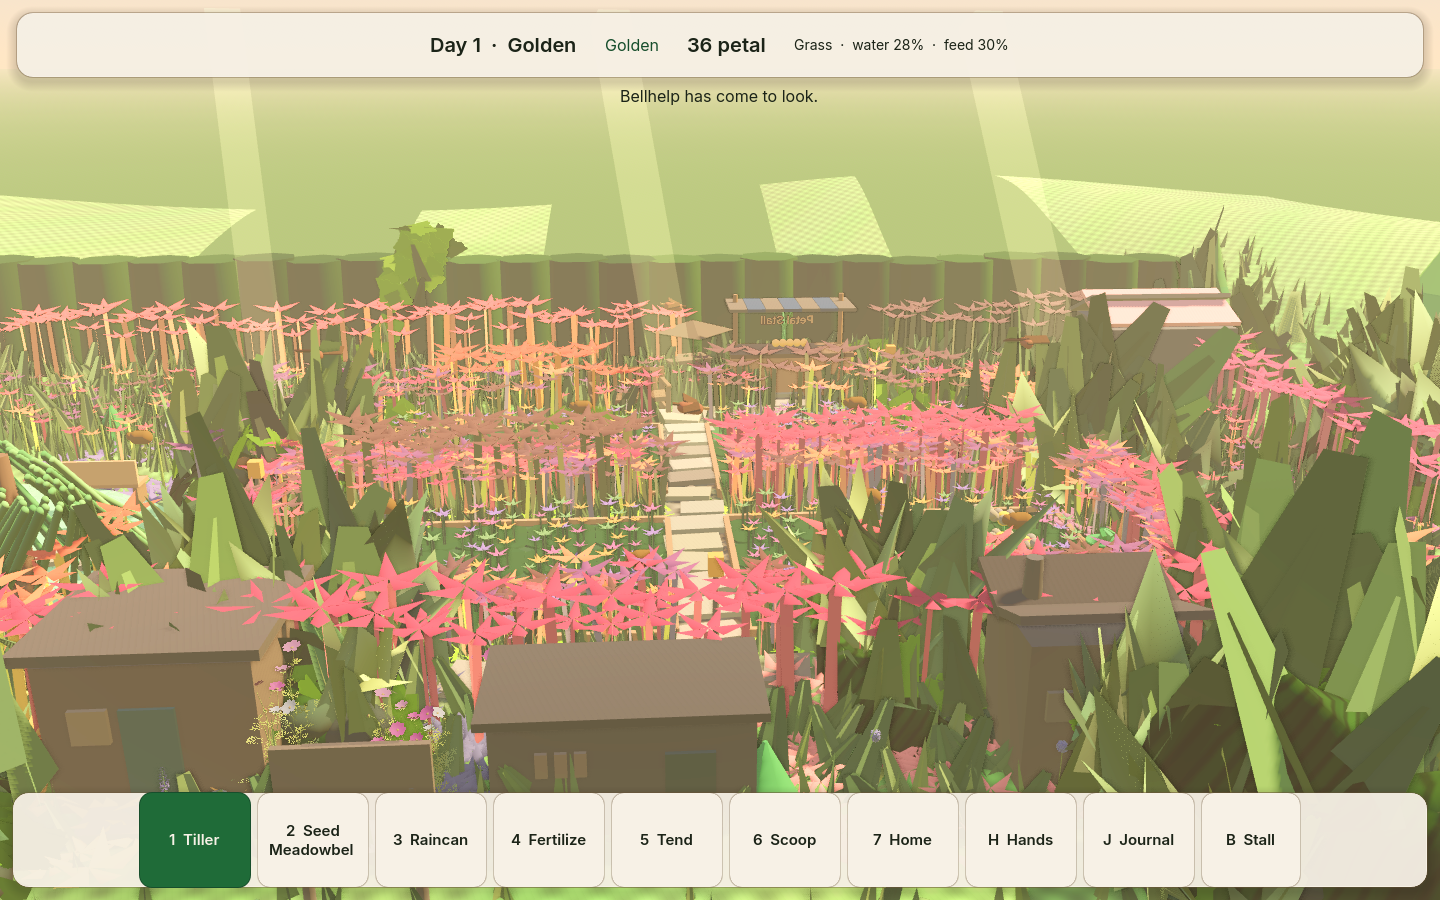
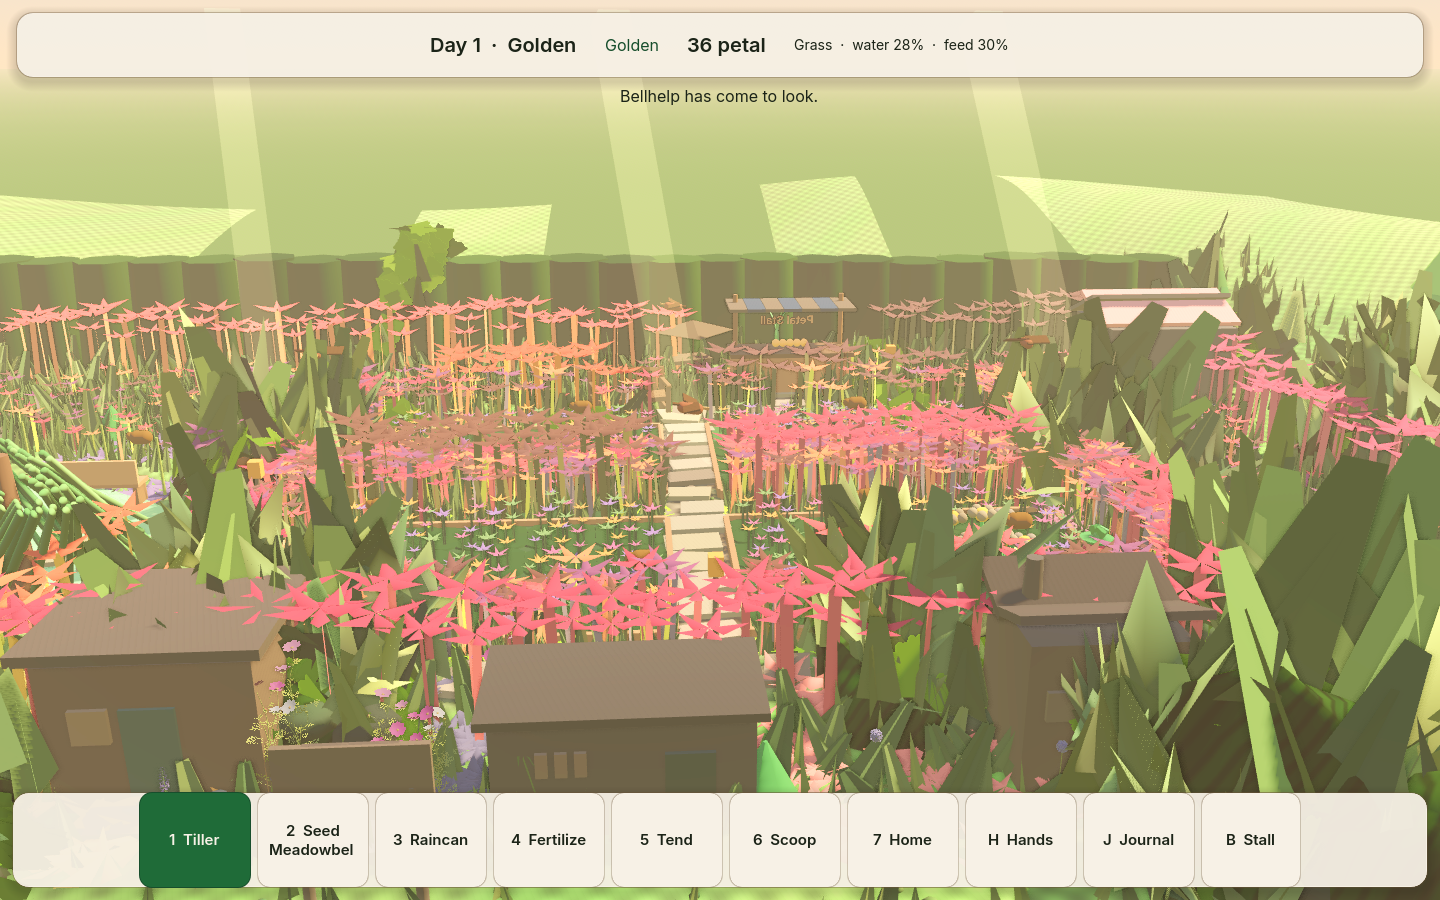
Record the meadow joining the plot rows.
The north and south beds meet across the lawn. The upper band is 1.57% light-green and the hill mean is (212.2, 223.8, 146.6).

diff --git a/docs/PETALWILD_MASTER_STATE.md b/docs/PETALWILD_MASTER_STATE.md
@@ -38,7 +38,7 @@ This machine has no Vulkan surface. Godot falls back to OpenGL 3 / llvmpipe. Aud
 - The garden does not yet look like the concept plates. See the gap list below.
 - Bellhelp’s five sphere lobes are gone. Five narrow petals run from the tips down to a small pad, with a dark five-petal well, a gold seed, a wider flared whorl, a lower rim, five gap tips past the lobes, a darker band, and a wide short rank inside the tips. The wide skirt of spheres is gone.
 - Lumen’s stalk is one fluted taper, cream at the base and green at the crown. The raised hand holds a seed tray. Each hand is a palm with three fingers and a thumb.
-- Crest leaf cards are 0.4 scale, and the far hedge keeps one 2.5 m tuft in four. A dark shrub row stands just behind that wall, taller at the east end. Light-green in the upper opening band fell from 53% to 24%, and in the lower band from 36% to 13%. The hill did not move. The stall still shows through the middle. The bright blue in that opening was the awning cloth. That stripe is darker now, about (171, 171, 173), and the sky-blue detector on the overview is 0. The shrub row behind the wall was the pale green in the upper band. That check now covers 1.2%, down from 3.5%. The crest leaf cards and the far trees were the side-opening pale pixels. The north backdrop trees are shorter. Paths are dark dirt with darker flagstones. Blooms are rose. StandardMaterial specular is off. The bench and planter are darkened, bright plant-atlas texels are capped, and the lantern glass is amber. The pink disk by the south-west rail, the untilled grass-plot tops, the meadowbell petals, the mauve bed, the resident hands, the light flagstones, the path dirt, and the loose stones are darkened. Overview pixels at pure white are 0. A planted cell keeps the meadow lid, so the crop sits in the bed. The four plots still stand apart along the paths. On this shot the upper-band check is 1.54% (1149 pixels) and the hill mean is (212.1, 223.7, 146.5). Eight bees drift over the beds. Four birds cross the garden by day and perch at dusk and in the rain.
+- Crest leaf cards are 0.4 scale, and the far hedge keeps one 2.5 m tuft in four. A dark shrub row stands just behind that wall, taller at the east end. Light-green in the upper opening band fell from 53% to 24%, and in the lower band from 36% to 13%. The hill did not move. The stall still shows through the middle. The bright blue in that opening was the awning cloth. That stripe is darker now, about (171, 171, 173), and the sky-blue detector on the overview is 0. The shrub row behind the wall was the pale green in the upper band. That check now covers 1.2%, down from 3.5%. The crest leaf cards and the far trees were the side-opening pale pixels. The north backdrop trees are shorter. Paths are dark dirt with darker flagstones. Blooms are rose. StandardMaterial specular is off. The bench and planter are darkened, bright plant-atlas texels are capped, and the lantern glass is amber. The pink disk by the south-west rail, the untilled grass-plot tops, the meadowbell petals, the mauve bed, the resident hands, the light flagstones, the path dirt, and the loose stones are darkened. Overview pixels at pure white are 0. A planted cell keeps the meadow lid, so the crop sits in the bed. The north and south plots meet across the lawn. The north-south path still separates the west beds from the east beds. On this shot the upper-band check is 1.57% (1176 pixels) and the hill mean is (212.2, 223.8, 146.6). Eight bees drift over the beds. Four birds cross the garden by day and perch at dusk and in the rain.
 - City, venues, and the agent civilisation are a single parish record (`data/district.json`, Hedge Hollow, phase A).
 - On-screen jellies stay at district fidelity or nearer. The directory shows each resident's home and job. The parish page lists venues. Petal Stall, the potting shed, the hedge tea house, the research hut, the media foundry, and the town hall board are open. Grove Park is not built, and demand for it is not simulated. Petal Stall demand is the people present plus creature residents.
 - Trust cannot research, draft, or act outside the process.
@@ -64,14 +64,14 @@ Spent: 0. Remaining on the connected account: **367.46** (pro). Catalog check re
 
 Compared `docs/screenshots/wave1_overview.png`, `wave1_jelly.png`, and `wave1_lumen.png` with `docs/reference/petalwild_target_garden_01.png` and `petalwild_target_garden_02.png`.
 
-The north backdrop trees are shorter than the hedge. Crest leaf cards are 0.4 scale, and the far hedge keeps one 2.5 m tuft in four. A dark shrub row stands just behind that wall, taller at the east end. Light-green pixels fell from 53% to 24% in the upper opening band (screen y 265–320) and from 36% to 13% in the lower band (y 290–360). East-lip luminance (y 252–272) fell from 200 to 162. The hill (y 200–245) did not change. Bellhelp’s close-up is on open lawn: five narrow lobes, a dark five-petal well, a gold seed, a wider flared whorl, a lower rim, five gap tips past the lobes, a darker band, and a wide short rank inside the tips. The bench and planter use a dark multiply, bright plant-atlas texels are capped, and the lantern glass is amber. The pink disk by the south-west rail, the untilled grass-plot tops, the meadowbell petals, the mauve bed, the resident hands, the light flagstones, the path dirt, and the loose stones are darkened. Pure white on this overview is 0. The stall awning’s bright blue was cloth, now about (171, 171, 173), and the sky-blue detector is 0. The shrub row behind the wall no longer reads as pale green; that upper-band check is 1.2%. On the previous shot that check was 1.17% and the hill mean was (212.9, 224.4, 147.6). With the hedge tea house in the lower left, that shot was 1.30%. With the research hut in the lower middle, that shot was 1.17% (874 pixels). With the media foundry in the lower middle, that shot was 1.15% (862 pixels). With the town hall board in the south gate, that shot was 1.29% (968 pixels) and the hill mean was (212.0, 223.6, 146.4). On that shot the check was 1.54% (1155 pixels) and the hill mean was (212.0, 223.7, 146.5). Empty untilled beds now carry nine dark leaf discs and eight short flowers, and a tilled or planted bed clears them. On the leaf-cover shot the check was 1.60% (1197 pixels) and the hill mean was (212.1, 223.8, 146.5). Neighboring empty cells now share an overlapping dark lid, so the brown seam inside a plot closes. On the joined-lid shot the check was 1.61% (1208 pixels) and the hill mean was (212.1, 223.8, 146.5). A planted cell now keeps that dark lid, so the crop sits in the meadow instead of an inset square. On this shot the check is 1.54% (1149 pixels) and the hill mean is (212.1, 223.7, 146.5). The swing is the west edge of the hill under the swaying leaves. A planted meadowbell is three bells on a leaf pad, and every crop sits in a ring of eight leaves. Eight bees drift over the beds. Four birds cross the garden by day and perch at dusk and in the rain. Paths are flagstones on dark dirt. Lumen’s stalk is one fluted taper, and the raised hand holds the seed tray. `PETAL_SMOKE_OK`, `PETAL_RULES_OK`, and `PETAL_CAPTURE_OK` passed on this tree. Shots are the six `wave1_*.png` files.
+The north backdrop trees are shorter than the hedge. Crest leaf cards are 0.4 scale, and the far hedge keeps one 2.5 m tuft in four. A dark shrub row stands just behind that wall, taller at the east end. Light-green pixels fell from 53% to 24% in the upper opening band (screen y 265–320) and from 36% to 13% in the lower band (y 290–360). East-lip luminance (y 252–272) fell from 200 to 162. The hill (y 200–245) did not change. Bellhelp’s close-up is on open lawn: five narrow lobes, a dark five-petal well, a gold seed, a wider flared whorl, a lower rim, five gap tips past the lobes, a darker band, and a wide short rank inside the tips. The bench and planter use a dark multiply, bright plant-atlas texels are capped, and the lantern glass is amber. The pink disk by the south-west rail, the untilled grass-plot tops, the meadowbell petals, the mauve bed, the resident hands, the light flagstones, the path dirt, and the loose stones are darkened. Pure white on this overview is 0. The stall awning’s bright blue was cloth, now about (171, 171, 173), and the sky-blue detector is 0. The shrub row behind the wall no longer reads as pale green; that upper-band check is 1.2%. On the previous shot that check was 1.17% and the hill mean was (212.9, 224.4, 147.6). With the hedge tea house in the lower left, that shot was 1.30%. With the research hut in the lower middle, that shot was 1.17% (874 pixels). With the media foundry in the lower middle, that shot was 1.15% (862 pixels). With the town hall board in the south gate, that shot was 1.29% (968 pixels) and the hill mean was (212.0, 223.6, 146.4). On that shot the check was 1.54% (1155 pixels) and the hill mean was (212.0, 223.7, 146.5). Empty untilled beds now carry nine dark leaf discs and eight short flowers, and a tilled or planted bed clears them. On the leaf-cover shot the check was 1.60% (1197 pixels) and the hill mean was (212.1, 223.8, 146.5). Neighboring empty cells now share an overlapping dark lid, so the brown seam inside a plot closes. On the joined-lid shot the check was 1.61% (1208 pixels) and the hill mean was (212.1, 223.8, 146.5). A planted cell now keeps that dark lid, so the crop sits in the meadow instead of an inset square. On the planted-lid shot the check was 1.54% (1149 pixels) and the hill mean was (212.1, 223.7, 146.5). The north and south plots now meet across the lawn, and the north-south path stays open. On this shot the check is 1.57% (1176 pixels) and the hill mean is (212.2, 223.8, 146.6). The swing is the west edge of the hill under the swaying leaves. A planted meadowbell is three bells on a leaf pad, and every crop sits in a ring of eight leaves. Eight bees drift over the beds. Four birds cross the garden by day and perch at dusk and in the rain. Paths are flagstones on dark dirt. Lumen’s stalk is one fluted taper, and the raised hand holds the seed tray. `PETAL_SMOKE_OK`, `PETAL_RULES_OK`, and `PETAL_CAPTURE_OK` passed on this tree. Shots are the six `wave1_*.png` files.
 
 Three largest gaps still open, against `docs/reference/petalwild_target_garden_01.png` and `petalwild_target_garden_02.png`:
 
-1. **Hedge skyline.** The crest cards and the far trees are darker. On this shot 1.54% of the upper band is still light-green (1149 pixels), mostly the west edge of the hill. The hill mean is (212.1, 223.7, 146.5). The stall still shows through the middle. The south rooms, the gate board, and the bed blooms sit lower and do not cover that edge. PETAL-05.
+1. **Hedge skyline.** The crest cards and the far trees are darker. On this shot 1.57% of the upper band is still light-green (1176 pixels), mostly the west edge of the hill. The hill mean is (212.2, 223.8, 146.6). The stall still shows through the middle. The south rooms, the gate board, and the bed blooms sit lower and do not cover that edge. PETAL-05.
 2. **Bellhelp.** Ten tips, a short rank inside them, a darker band, and a wider skirt. The dark throat is still the center. PETAL-03.
-3. **Plot grid.** A planted cell keeps the meadow lid, so it no longer punches an inset square. The four plots still stand apart along the paths. The plates are one continuous planting. Overview pixels at pure white are 0, and the brightest leftover is still the warm horizon at screen x 1034, y 178, (255, 255, 201). That is sky. PETAL-06.
+3. **Plot grid.** The north and south plots meet across the lawn. The north-south path still separates the west beds from the east beds. The plates are one continuous planting. Overview pixels at pure white are 0, and the brightest leftover is still the warm horizon at screen x 1034, y 178, (255, 255, 201). That is sky. PETAL-06.
 
 ## Next integration
 
-Keep this build playable. The next pass stays inside `scenes/main.tscn` (Hedge Hollow). The creature chain through Gushorn can happen in this garden, and two resident Bellhelps raise the species to breeding. Grove Park is still not built. The hedge tea house stands on the south lawn. The research hut stands west of it, and the media foundry stands between them. The town hall is a board by the south gate. Meadowbells are a clump of three, and every crop sits in a ring of leaves. A planted cell keeps the meadow lid, and the four plots still stand apart along the paths. On this shot 1.54% of the upper band is still light green (1149 pixels), mostly the west edge of the hill, and the stall still shows through the middle. The hill mean is (212.1, 223.7, 146.5). The south rooms and the town hall board sit in the foreground. Bees sit on the flowers while it rains. Do not paint that hill edge, do not cut the hill, and do not raise the east shrubs. Do not fill Bellhelp’s dark throat. Do not open a side demo. The Kenney/Cara grove in `scripts/presentation/` is not the running scene.
+Keep this build playable. The next pass stays inside `scenes/main.tscn` (Hedge Hollow). The creature chain through Gushorn can happen in this garden, and two resident Bellhelps raise the species to breeding. Grove Park is still not built. The hedge tea house stands on the south lawn. The research hut stands west of it, and the media foundry stands between them. The town hall is a board by the south gate. Meadowbells are a clump of three, and every crop sits in a ring of leaves. The north and south plots meet across the lawn, and the north-south path still separates the west beds from the east beds. On this shot 1.57% of the upper band is still light green (1176 pixels), mostly the west edge of the hill, and the stall still shows through the middle. The hill mean is (212.2, 223.8, 146.6). The south rooms and the town hall board sit in the foreground. Bees sit on the flowers while it rains. Do not paint that hill edge, do not cut the hill, and do not raise the east shrubs. Do not fill Bellhelp’s dark throat. Do not open a side demo. The Kenney/Cara grove in `scripts/presentation/` is not the running scene.

diff --git a/docs/VISUAL_GAP.md b/docs/VISUAL_GAP.md
@@ -2,12 +2,12 @@
 
 Compared on 2026-09-22. The scene `tools/run.sh` launches is Hedge Hollow. Shots: `docs/screenshots/wave1_overview.png`, `wave1_jelly.png`, `wave1_lumen.png`. Targets: `docs/reference/petalwild_target_garden_01.png` and `petalwild_target_garden_02.png`.
 
-The north backdrop trees are shorter than the hedge. Crest leaf cards are 0.4 of their old size, and the far wall keeps one 2.5 m tuft in four. A row of dark shrubs stands just behind that wall. The east end is taller so its lip meets the hedge line. Light-green pixels in the upper opening band (screen y 265–320, x 40–1400) fell from 53% to 24%, and in the lower band (y 290–360, x 80–1200) from 36% to 13%. On the east lip (y 252–272, x 40–300) mean luminance fell from 200 to 162. The hill (y 200–245) did not change. The stall still sits in front of the middle of the wall. The bright blue band in that opening was the awning cloth, not a hole in the hedge. That stripe is darker now and reads about (171, 171, 173). A sky-blue detector on the overview (blue above 200, ahead of red by 20 and of green by 10) is 0. The shrub row behind the wall was lifting to pale green under the sun. The same light-green check (green ahead of red by 15 and of blue by 20, green above 140) now covers 1.2% of the upper band, down from 3.5% on the previous shot. The crest leaf cards and the far trees were the pale pixels in the side openings. The upper hill (screen y 200–230) stayed at about (213, 224, 148). The ground sky below the horizon is green, so a hole in the hill reads as olive rather than pale sky. Bellhelp’s close-up shows five pointed lobes, five gap tips past them, a wide short rank inside that ring, a darker band, and a wider flared whorl. The dark throat stays. The wide skirt of spheres is gone. The bench and planter use a dark multiply on the prop texture, and bright plant-atlas texels are capped. The three lantern glasses are amber instead of pure white. The pink disk by the south-west rail, the untilled grass-plot tops, the meadowbell petals, the mauve bed, the resident hands, the light flagstones, the path dirt, and the loose stones are darkened so they stay under the sun. Eight bees drift over the beds. Four birds cross the garden by day and perch at dusk and in the rain. A planted meadowbell is three bells on a leaf pad, and every crop sits in a ring of eight leaves. Pure white on this overview is 0. On the previous shot the upper-band light-green check was 1.17% and the hill mean was (212.9, 224.4, 147.6). The hedge tea house stands in the lower left of the home shot. On that shot the same check was 1.30% (969 pixels) and the hill mean was (212.0, 223.6, 146.4). The research hut stands in the lower middle of that shot, where the check was 1.17% (874 pixels) and the hill mean was (212.0, 223.6, 146.4). The media foundry stands in the lower middle of that shot, where the check was 1.15% (862 pixels) and the hill mean was (212.0, 223.6, 146.4). The town hall board now stands in the south gate. On the town-hall shot the check was 1.29% (968 pixels) and the hill mean was (212.0, 223.6, 146.4). On the six-bloom shot the check was 1.54% (1155 pixels) and the hill mean was (212.0, 223.7, 146.5). Empty untilled beds now carry nine dark leaf discs and eight short flowers, and a tilled or planted bed clears them. On the leaf-cover shot the check was 1.60% (1197 pixels) and the hill mean was (212.1, 223.8, 146.5). Neighboring empty cells now share an overlapping dark lid, so the brown seam inside a plot closes. On the joined-lid shot the check was 1.61% (1208 pixels) and the hill mean was (212.1, 223.8, 146.5). A planted cell now keeps that dark lid, so the crop sits in the meadow instead of an inset square. On this shot the check is 1.54% (1149 pixels) and the hill mean is (212.1, 223.7, 146.5). The swing is the west edge of the hill under the swaying leaves.
+The north backdrop trees are shorter than the hedge. Crest leaf cards are 0.4 of their old size, and the far wall keeps one 2.5 m tuft in four. A row of dark shrubs stands just behind that wall. The east end is taller so its lip meets the hedge line. Light-green pixels in the upper opening band (screen y 265–320, x 40–1400) fell from 53% to 24%, and in the lower band (y 290–360, x 80–1200) from 36% to 13%. On the east lip (y 252–272, x 40–300) mean luminance fell from 200 to 162. The hill (y 200–245) did not change. The stall still sits in front of the middle of the wall. The bright blue band in that opening was the awning cloth, not a hole in the hedge. That stripe is darker now and reads about (171, 171, 173). A sky-blue detector on the overview (blue above 200, ahead of red by 20 and of green by 10) is 0. The shrub row behind the wall was lifting to pale green under the sun. The same light-green check (green ahead of red by 15 and of blue by 20, green above 140) now covers 1.2% of the upper band, down from 3.5% on the previous shot. The crest leaf cards and the far trees were the pale pixels in the side openings. The upper hill (screen y 200–230) stayed at about (213, 224, 148). The ground sky below the horizon is green, so a hole in the hill reads as olive rather than pale sky. Bellhelp’s close-up shows five pointed lobes, five gap tips past them, a wide short rank inside that ring, a darker band, and a wider flared whorl. The dark throat stays. The wide skirt of spheres is gone. The bench and planter use a dark multiply on the prop texture, and bright plant-atlas texels are capped. The three lantern glasses are amber instead of pure white. The pink disk by the south-west rail, the untilled grass-plot tops, the meadowbell petals, the mauve bed, the resident hands, the light flagstones, the path dirt, and the loose stones are darkened so they stay under the sun. Eight bees drift over the beds. Four birds cross the garden by day and perch at dusk and in the rain. A planted meadowbell is three bells on a leaf pad, and every crop sits in a ring of eight leaves. Pure white on this overview is 0. On the previous shot the upper-band light-green check was 1.17% and the hill mean was (212.9, 224.4, 147.6). The hedge tea house stands in the lower left of the home shot. On that shot the same check was 1.30% (969 pixels) and the hill mean was (212.0, 223.6, 146.4). The research hut stands in the lower middle of that shot, where the check was 1.17% (874 pixels) and the hill mean was (212.0, 223.6, 146.4). The media foundry stands in the lower middle of that shot, where the check was 1.15% (862 pixels) and the hill mean was (212.0, 223.6, 146.4). The town hall board now stands in the south gate. On the town-hall shot the check was 1.29% (968 pixels) and the hill mean was (212.0, 223.6, 146.4). On the six-bloom shot the check was 1.54% (1155 pixels) and the hill mean was (212.0, 223.7, 146.5). Empty untilled beds now carry nine dark leaf discs and eight short flowers, and a tilled or planted bed clears them. On the leaf-cover shot the check was 1.60% (1197 pixels) and the hill mean was (212.1, 223.8, 146.5). Neighboring empty cells now share an overlapping dark lid, so the brown seam inside a plot closes. On the joined-lid shot the check was 1.61% (1208 pixels) and the hill mean was (212.1, 223.8, 146.5). A planted cell now keeps that dark lid, so the crop sits in the meadow instead of an inset square. On the planted-lid shot the check was 1.54% (1149 pixels) and the hill mean was (212.1, 223.7, 146.5). The north and south plots now meet across the lawn, and the north-south path stays open. On this shot the check is 1.57% (1176 pixels) and the hill mean is (212.2, 223.8, 146.6). The swing is the west edge of the hill under the swaying leaves.
 
 ## Three largest gaps
 
-1. **Hedge skyline.** The crest cards and the far trees are darker. On this shot 1.54% of the upper band is still light-green (1149 pixels), mostly the west edge of the hill. The hill mean is (212.1, 223.7, 146.5). The stall still shows through the middle. The south rooms, the gate board, and the bed blooms sit lower and do not cover that edge. PETAL-05.
+1. **Hedge skyline.** The crest cards and the far trees are darker. On this shot 1.57% of the upper band is still light-green (1176 pixels), mostly the west edge of the hill. The hill mean is (212.2, 223.8, 146.6). The stall still shows through the middle. The south rooms, the gate board, and the bed blooms sit lower and do not cover that edge. PETAL-05.
 
 2. **Bellhelp.** Ten tips, a short rank inside them, a darker band, and a wider skirt. The dark throat is still the center. PETAL-03.
 
-3. **Plot grid.** A planted cell keeps the meadow lid, so it no longer punches an inset square. The four plots still stand apart along the paths. The plates are one continuous planting. Overview pixels at pure white are 0, and the brightest leftover is still the warm horizon at screen x 1034, y 178, (255, 255, 201). That is sky. PETAL-06.
+3. **Plot grid.** The north and south plots meet across the lawn. The north-south path still separates the west beds from the east beds. The plates are one continuous planting. Overview pixels at pure white are 0, and the brightest leftover is still the warm horizon at screen x 1034, y 178, (255, 255, 201). That is sky. PETAL-06.
